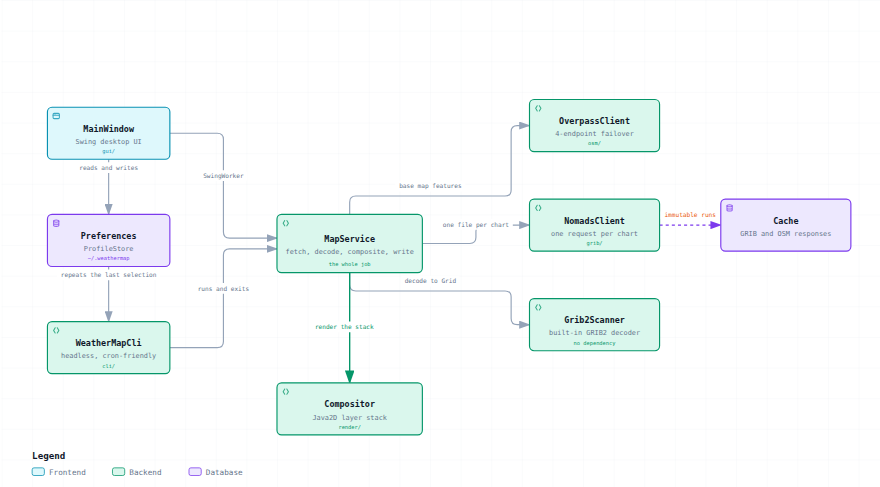
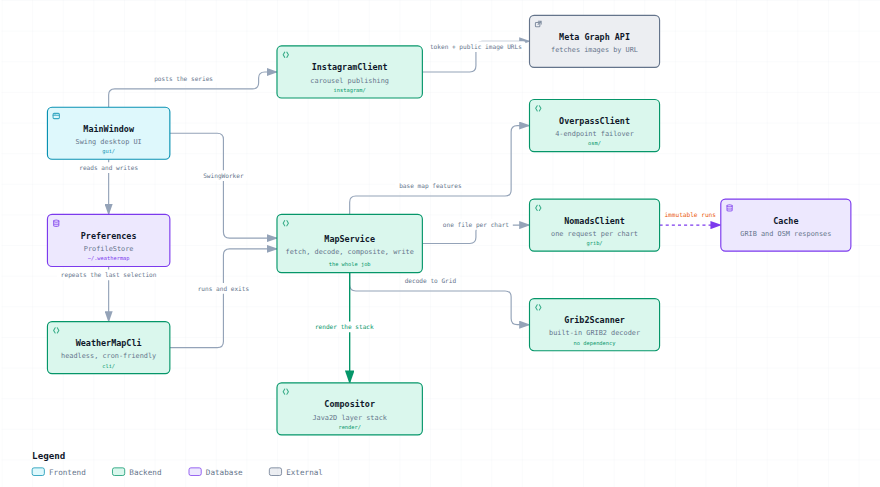
Bring the documentation and the diagrams up to date again
The prose pass after the packaging work missed that the diagrams are
documentation too. Three of them described a codebase that had since gained a
package.

The code-structure diagram now shows instagram/, and gui/ names the help system
it acquired. The C4 container diagram gains InstagramClient and the Meta Graph
API; the context diagram gains Instagram as the external system it is. Both were
re-validated, re-delivered, re-exported to SVG and re-rasterised for the Help
window, which is four steps and exactly why tools/archify-export.py and
tools/svg-to-png.sh exist.

A public-folder node was drafted for the container diagram and removed again:
the right-hand column could not take a third box without the routing becoming
the subject of the picture, and the fact - that Meta fetches every image rather
than receiving it - is carried in the cards instead. A diagram that has to
explain its own layout has stopped being one.

Two sentences and a table row in prose: the Share menu in basic usage,
instagram.properties in the persistence section of how it works, and the
unproven Instagram publish in the list of gaps, where it belongs beside the
other things that are written but not exercised.

One self-inflicted bug worth recording. Shifting the diagram's footer notes down
by substituting their y values in sequence made the later rules match text the
earlier rules had already written, so two notes landed on the same line and one
[…]

Changed region(s): [[0.1227, 0.0308, 0.7364, 0.2156], [0.3068, 0.9548, 0.3682, 0.9856]]

diff --git a/docs/not-done-yet.md b/docs/not-done-yet.md
@@ -15,6 +15,7 @@ Ordered by how much they matter.
 | Download progress is end-only | `Http.download` | `BodyHandlers.ofFile` gives no intermediate callbacks; needs a counting `BodySubscriber`. |
 | Variable/level availability is only partly validated | `GribCatalog.STANDARD_LEVELS` | The common levels are known and an impossible pair is now repaired by the CLI and queried by the UI, but the full set is only discoverable from each model's filter form, so an unknown pairing is still allowed through and fails at download time. |
 | Pressure-centre search radius is in pixels | `IsolineLayer.CENTRE_RADIUS_PX` | So the test means about a degree on a chart of Britain and five and a half on one of the Southern Ocean, and the same system can be marked at one zoom and not another. A geographic radius was tried: it fixes a genuine miss and loses a different centre, so it is a trade rather than an improvement and wants a proper survey across chart scales. |
+| Instagram publishing is unproven against Meta | `instagram/` | The request construction, image handling, chart selection and credential storage are tested. The three-step publish is written to the documented contract and has not been run against Meta's servers, which needs a real app, token and account. |
 | Packages are not signed | `dist/` | An unknown-publisher warning on Windows, and a right-click-to-open on macOS, until they are signed and notarised. See [Packaging](packaging.md). |
 | Isoline segments are not stitched into paths | `IsolineLayer` | Marching squares emits unordered segments, which draw correctly and label adequately. Stitching would buy smoothing and a gap in the line under each label. |
 | A marine label point can land on land | `tools/make-gazetteer.py` | The centroid-then-chord rule holds for convex and crescent shapes; a many-armed one such as "Inner Seas off the West Coast of Scotland" can still put its name over an island. A pole of inaccessibility would fix it. |

diff --git a/docs/basic-usage.md b/docs/basic-usage.md
@@ -83,6 +83,18 @@ image, ready to paste into a message.
 | *Area wider than 20°* | Too large for Overpass; the bundled world map is used instead. |
 | *… charts skipped* | Their model runs have aged out of NOMADS' ten-day archive. |
 
+## Post a series to Instagram
+
+**Share → Post to Instagram…** publishes the chart on screen and the ones after
+it as a carousel — four by default, up to ten.
+
+The setup is not what you would expect, and it is worth reading
+[Posting to Instagram](instagram.md) once before the first attempt: Instagram
+has no password-based posting, so the credentials are an account ID and an
+access token, and the API fetches every image from a public URL rather than
+accepting an upload — so the application needs a folder it can write that you
+also serve over HTTP.
+
 ## Help without leaving the window
 
 **Help → User's Guide** (F1) is this page and the ones beside it; **Help →

diff --git a/docs/how-it-works.md b/docs/how-it-works.md
@@ -92,6 +92,11 @@ full screen and the size actually chosen would be lost.
 Named profiles sit beside it, one file each under `~/.weathermap/profiles`, in
 the same format — see [Series, profiles and chart times](series-and-profiles.md).
 
+`instagram.properties` is kept separate from all of them, because it holds a
+bearer token rather than a preference: the file is made owner-readable where the
+filesystem allows, and the token is never logged or put in an error message. See
+[Posting to Instagram](instagram.md).
+
 **A trap worth knowing about.** The window runs on *copies* of the selection and
 the render settings while the command-line tool does not, so anything
 `GribSelection.copy()` or `RenderSpec.copy()` forgets is a setting that

diff --git a/docs/architecture/c4-container.md b/docs/architecture/c4-container.md
@@ -13,11 +13,17 @@
 - Preferences carries the last area and selection
 - ProfileStore keeps named areas and selections
 - Cache holds GRIB runs indefinitely and OSM for four weeks
+- instagram.properties holds a bearer token, owner-readable only
 
 **No third-party decoder**
 
 - NOMADS filter output is simple-packed, so Grib2Scanner reads it directly
 - NetCDF-Java stays an optional profile for everything else
+
+**Publishing**
+
+- Instagram fetches every image; nothing local can be posted
+- So charts are written to a folder served at a configured public URL
 
 ---
 

diff --git a/docs/architecture/c4-context.md b/docs/architecture/c4-context.md
@@ -12,6 +12,7 @@
 - NOMADS serves GRIB2 already cut to the area
 - Overpass serves coastline, boundaries and place names
 - Natural Earth ships in the jar and needs no network
+- Instagram fetches posted images from a public URL
 
 **Fail-soft boundaries**
 
